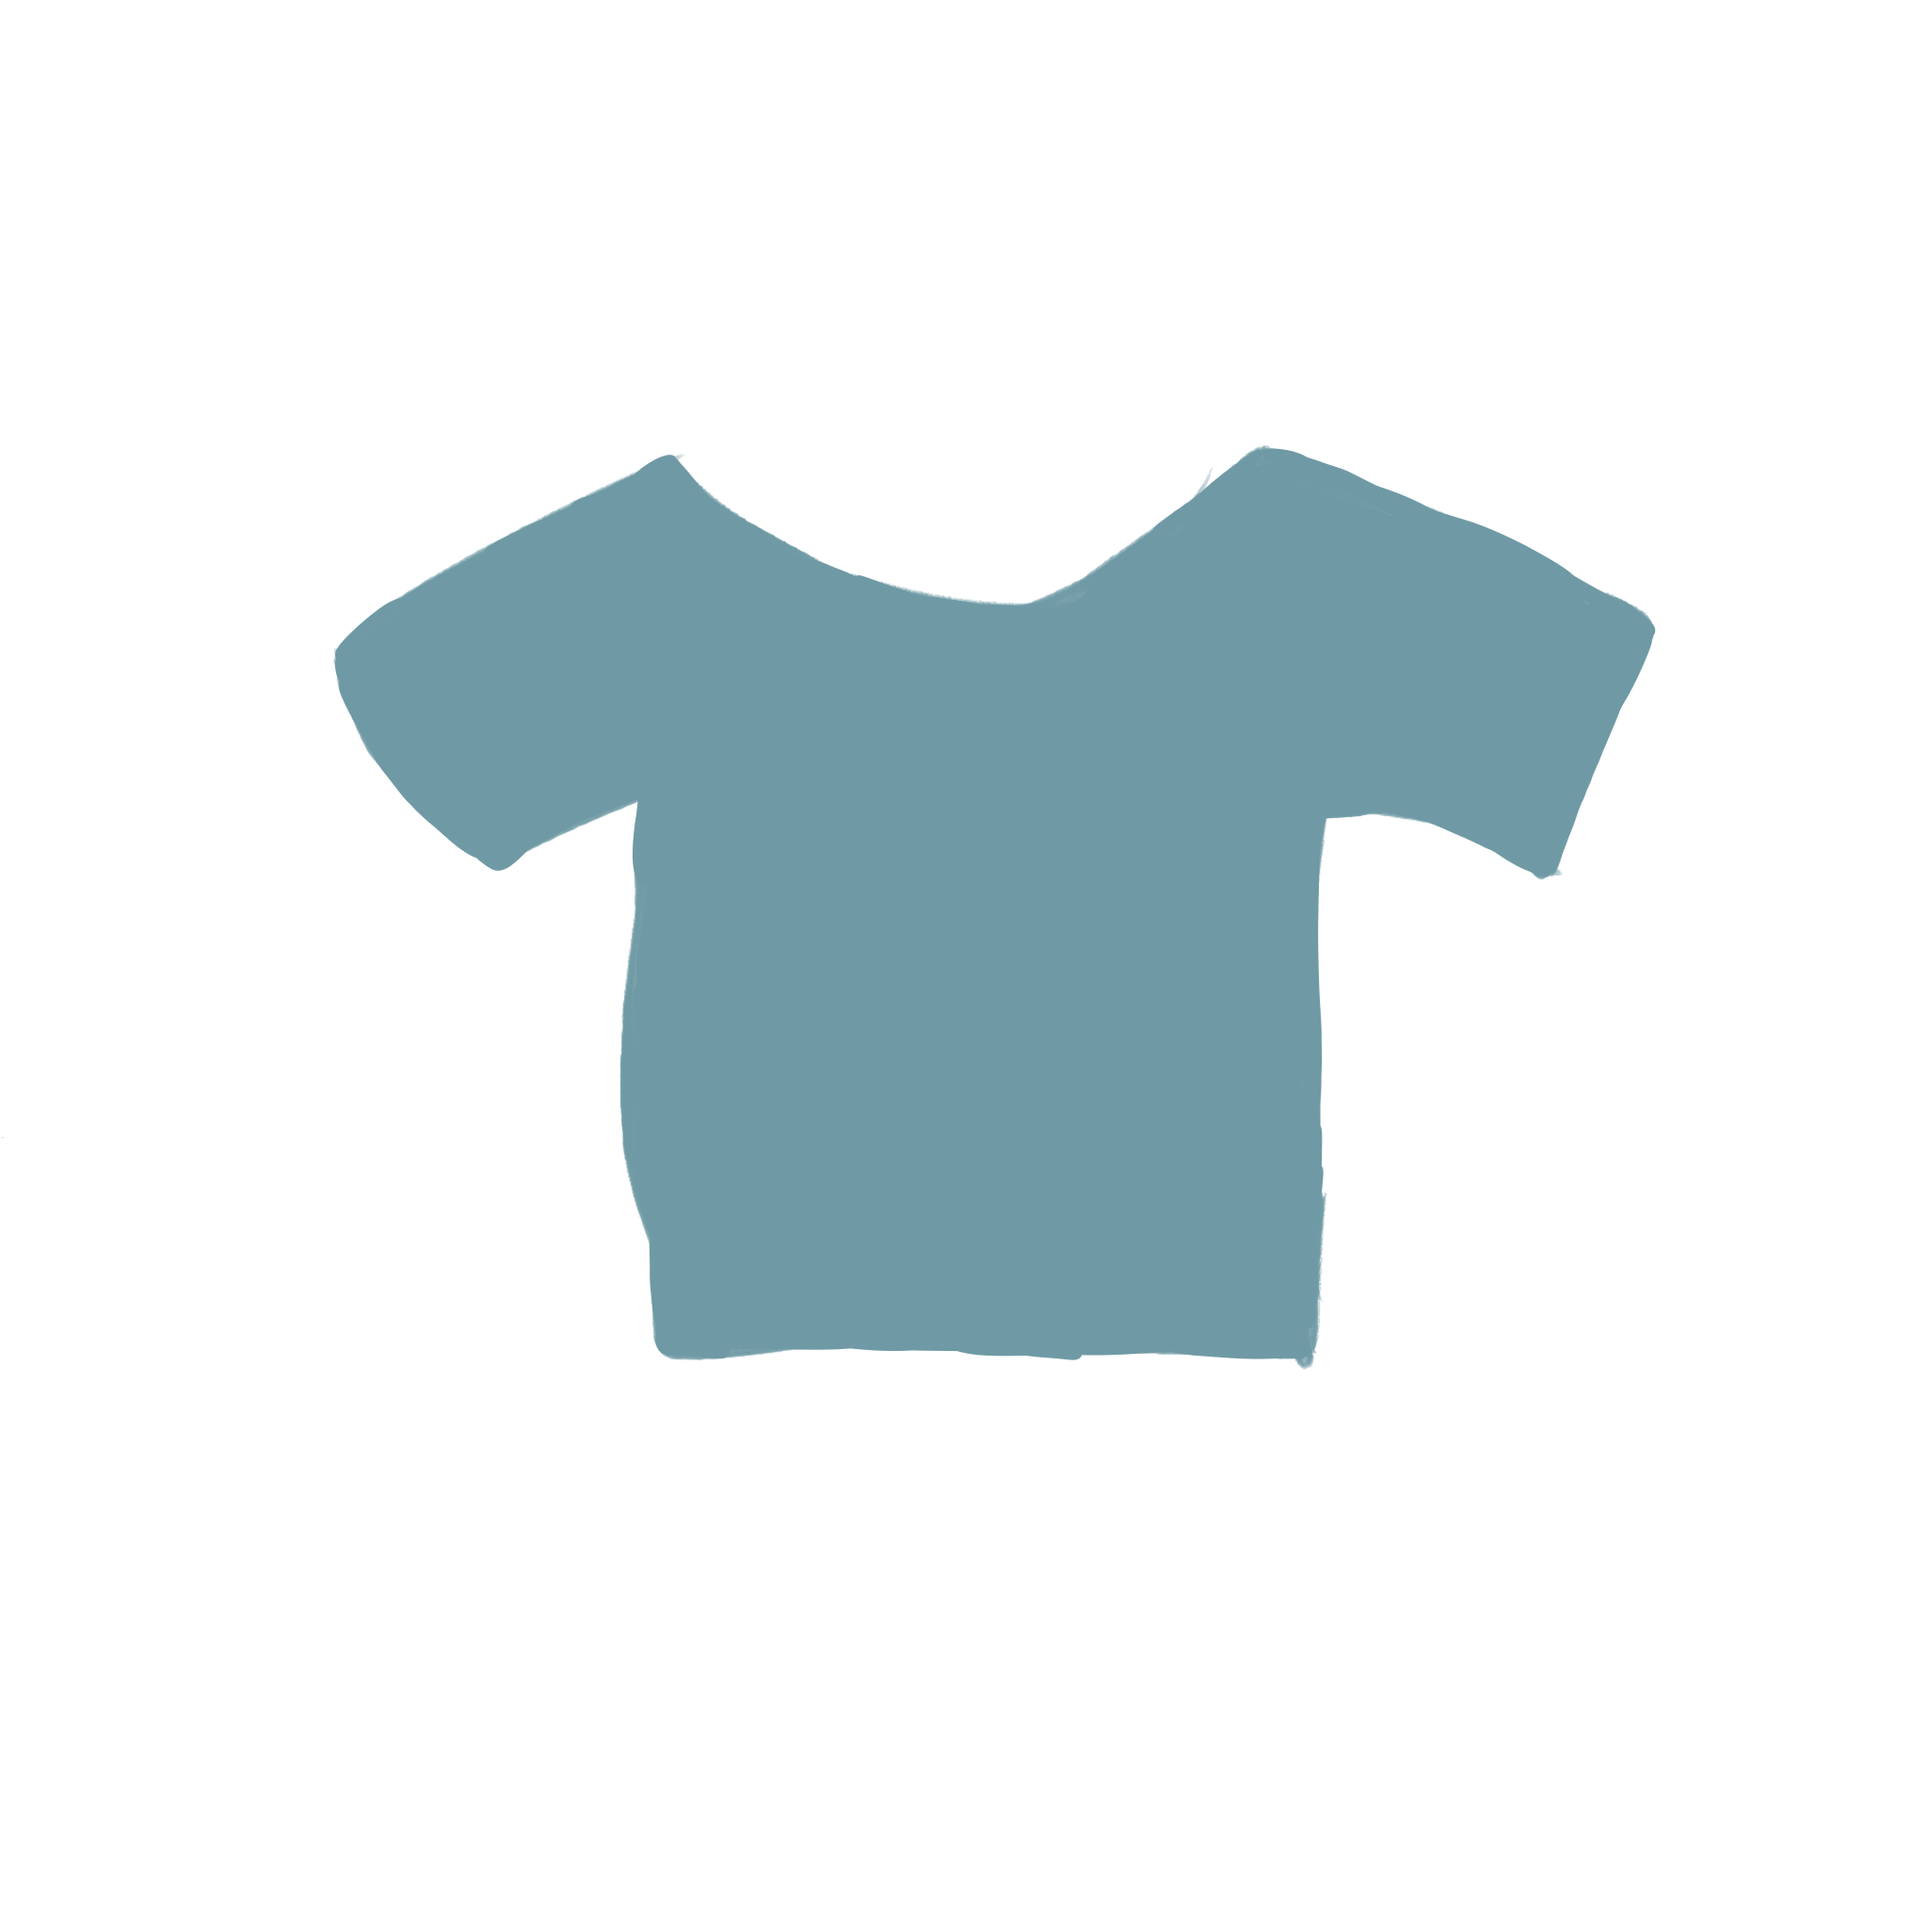
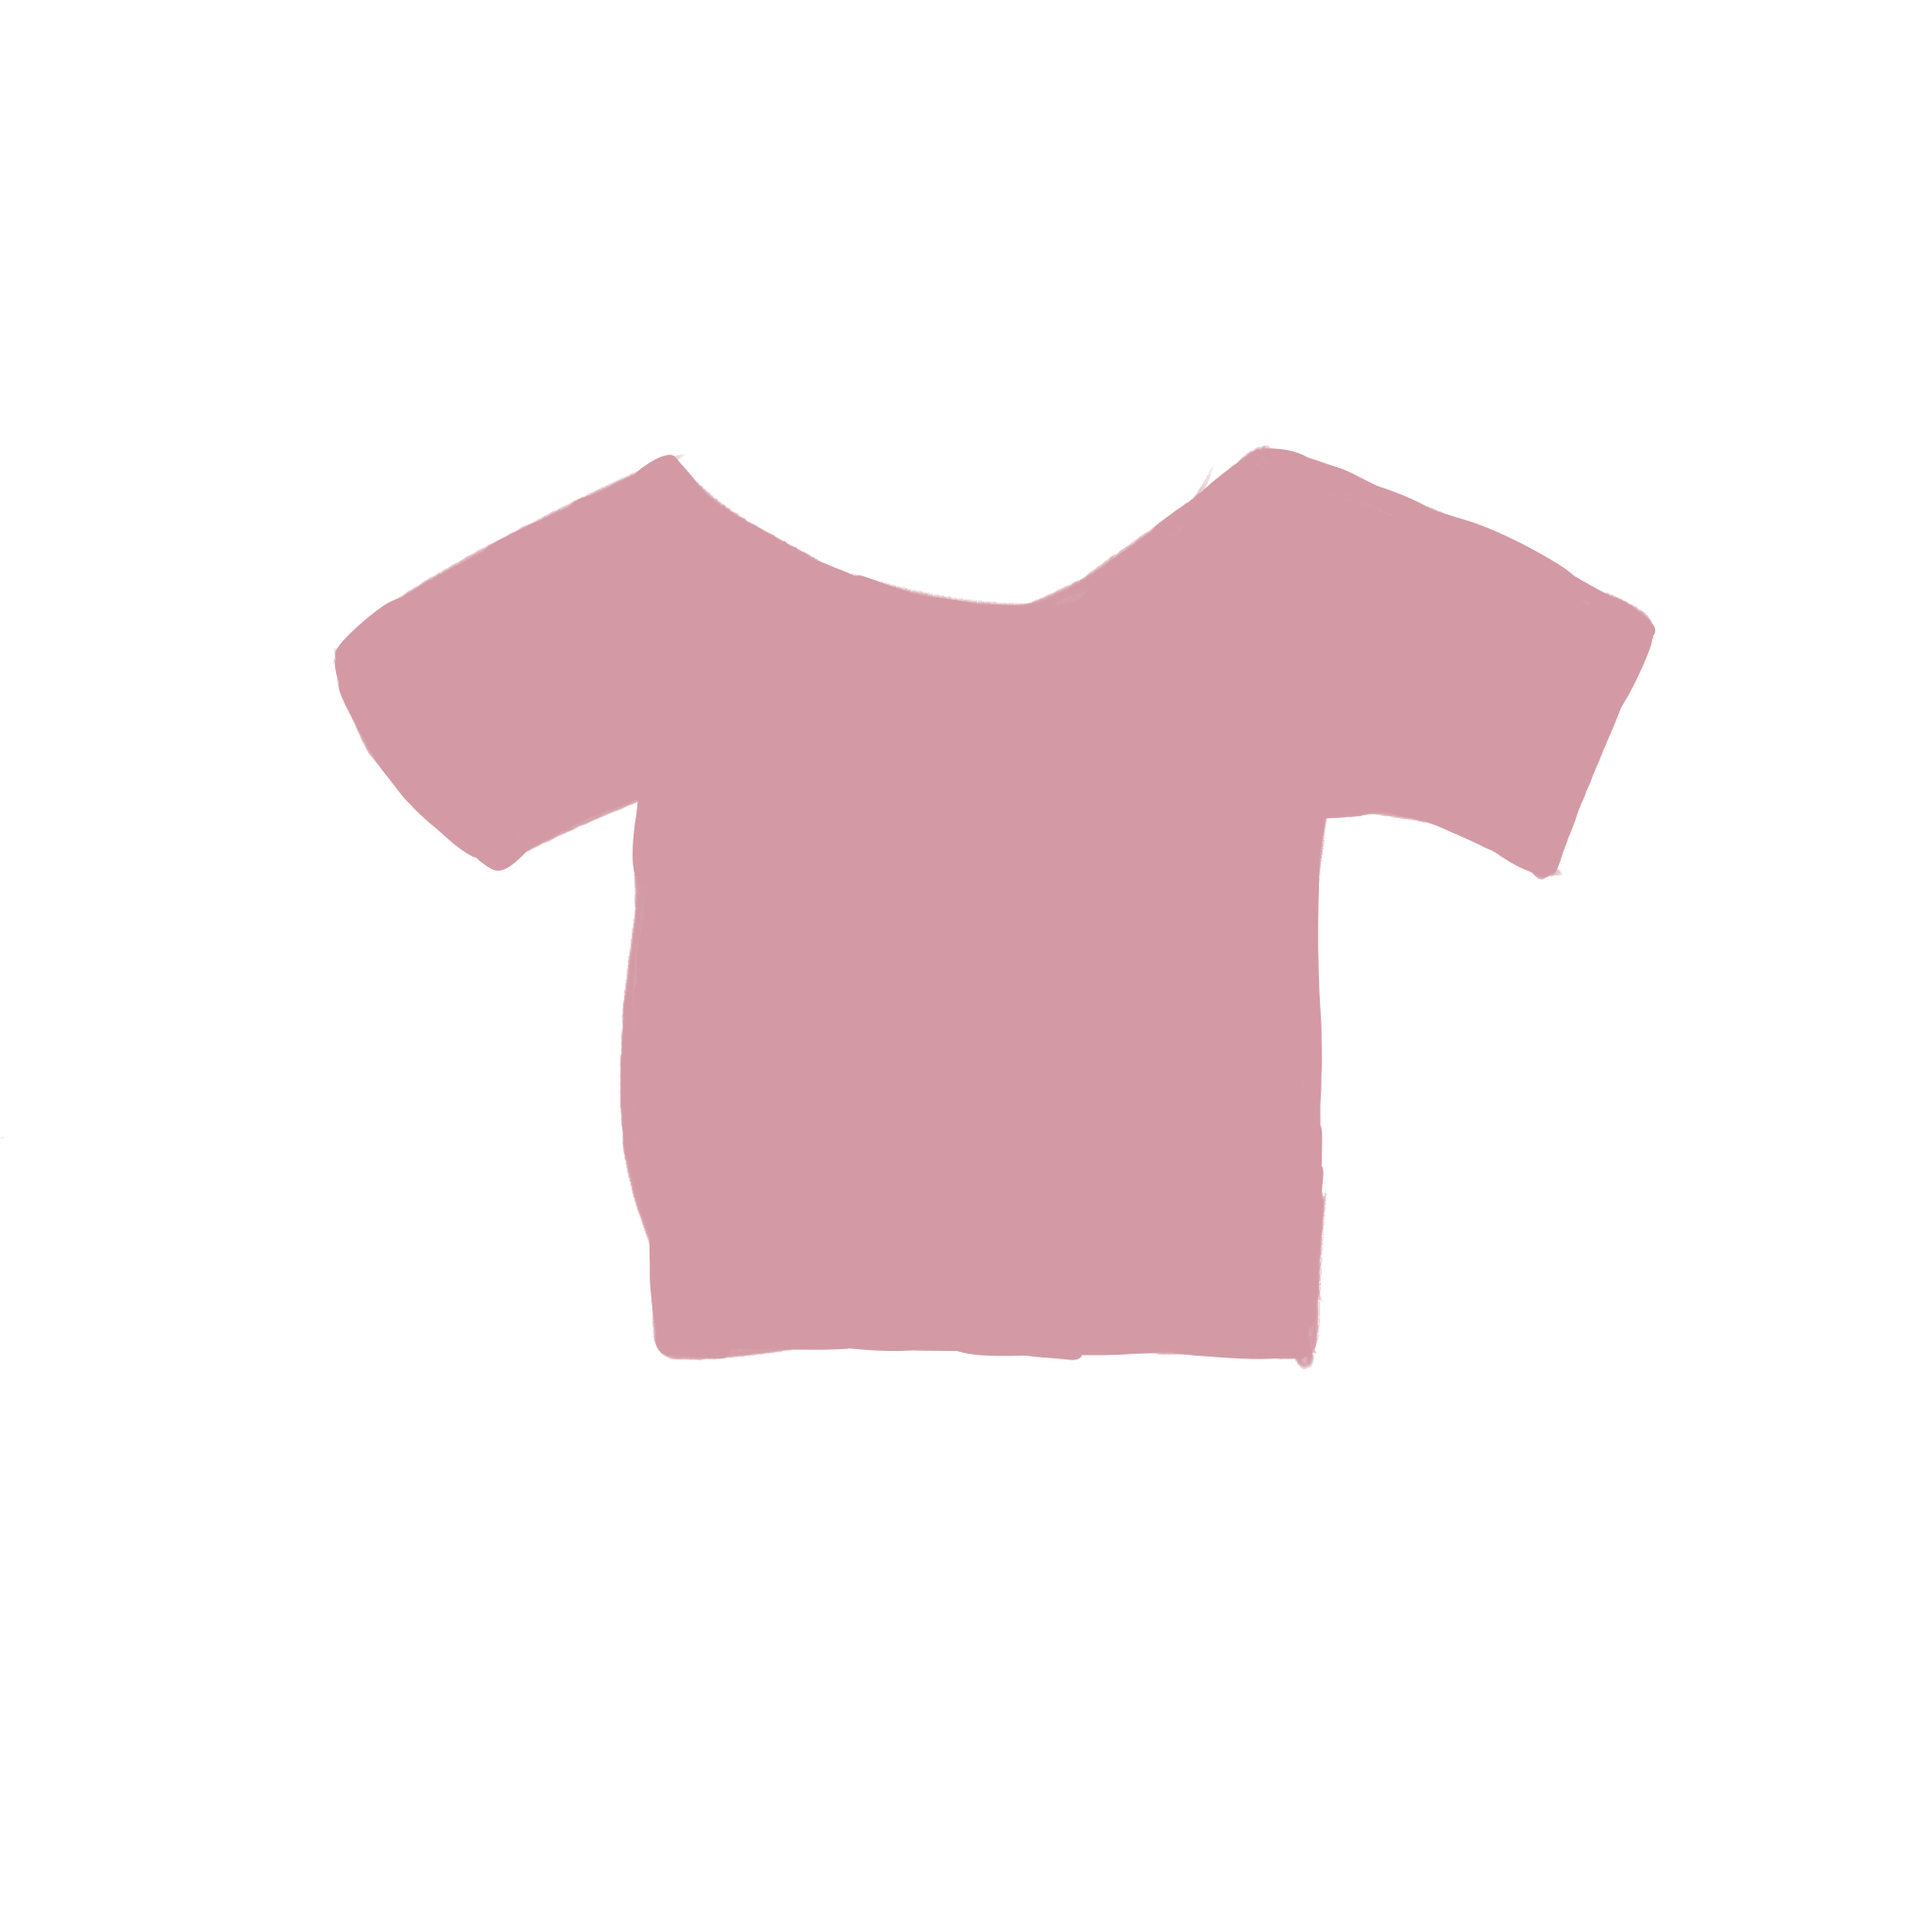
Update

Changed region(s): [[0.1562, 0.2188, 0.875, 0.7188]]

diff --git a/image_changer.js b/image_changer.js
@@ -11,7 +11,7 @@ module.exports.imageChanger = (function (filename, color_r, color_g, color_b, co
         return -1;
     }
 
-    fs.readFile(__dirname + finename, function (err, data) {
+    fs.readFile(__dirname + '/' + filename, function (err, data) {
         if (err) throw err;
 
         var img = new Image;
@@ -39,4 +39,10 @@ module.exports.imageChanger = (function (filename, color_r, color_g, color_b, co
             console.log("img saved");
         });
     });
+
+    return{
+        toString : function (){
+            
+        }
+    }
 });

diff --git a/canvas_saver.js b/canvas_saver.js
@@ -3,9 +3,9 @@
 module.exports = (function () {
     "use strict";
 
-    var fs = require('fs');
+    const fs = require('fs');
 
-    var canvas_to_base64 = function (canvas) {
+    const canvas_to_base64 = function (canvas) {
         return canvas.toDataURL().split(',')[1];
     }
 

diff --git a/test/image.js b/test/image.js
@@ -5,6 +5,6 @@ const assert = require('assert')
 
 describe('ImageChangerTest', function() {
   it('color', function() {
-      const img = imgChanger.imageChanger(111,154,165);
+      const img = imgChanger.imageChanger("huku.png",211,154,165);
   })
 })

diff --git a/converter.js b/converter.js
@@ -1,0 +1,4 @@
+module.exports = (function (canvas) {
+    "use strict";
+    return canvas.toDataURL().split(',')[1];
+})();
